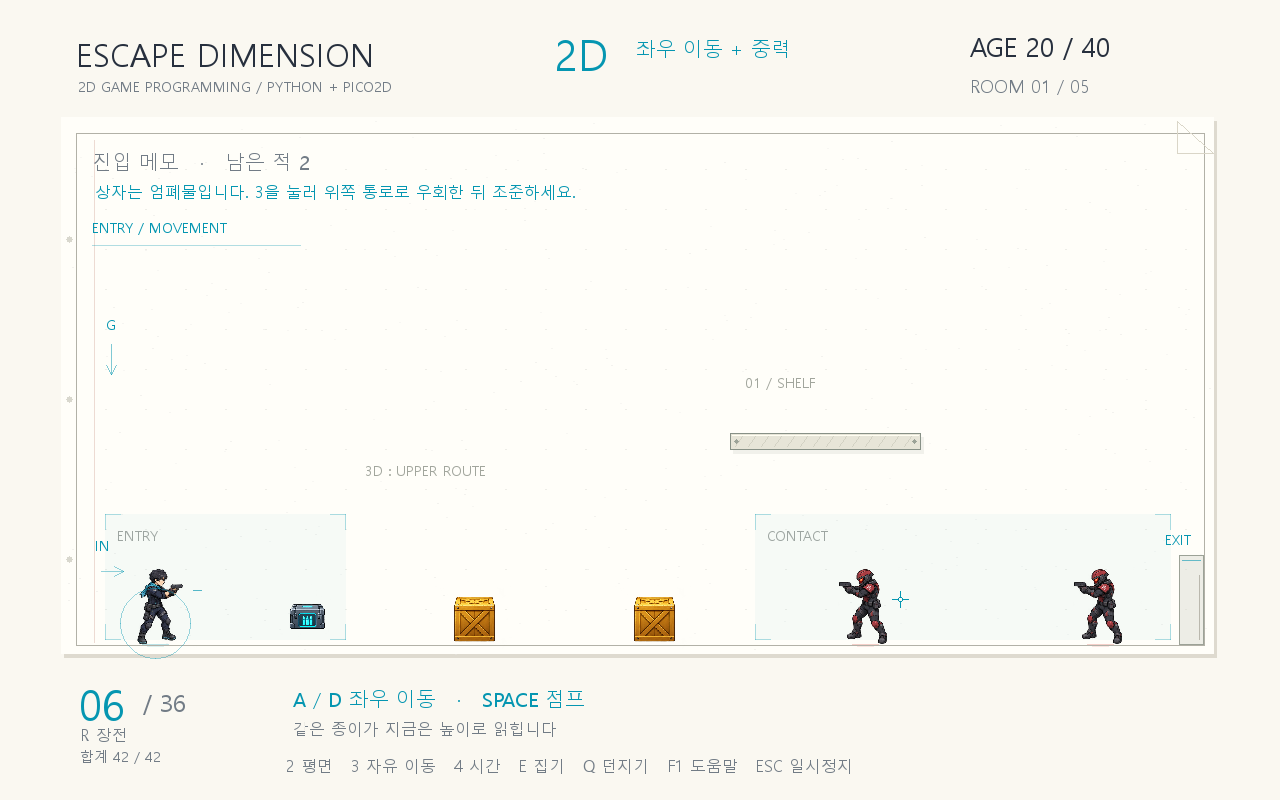
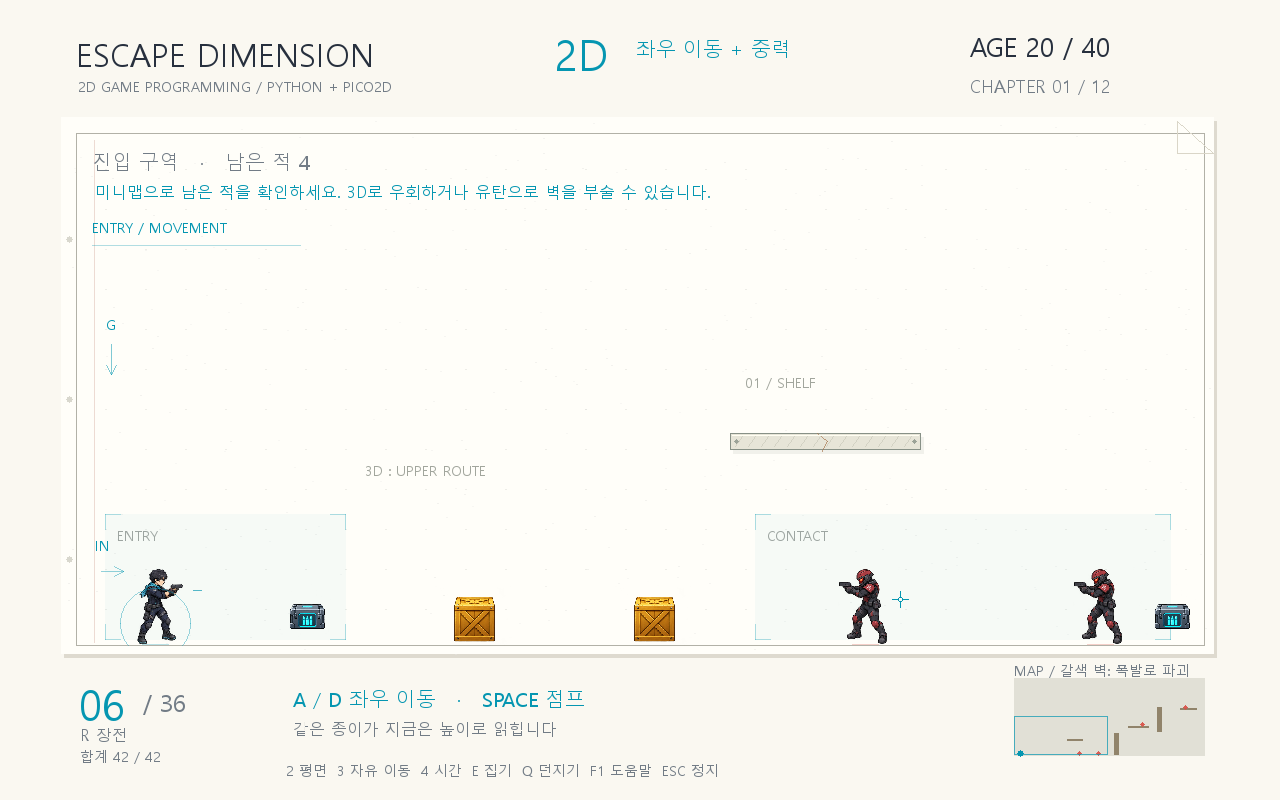
문서: 확장 캠페인 안내와 검사 결과 갱신

diff --git a/README.md b/README.md
@@ -4,12 +4,13 @@
 
 게임공학과 박태욱 · 2D 게임프로그래밍 프로젝트
 
-![실제 게임 화면](docs/knife-room.png)
+![최종보스 실제 게임 화면](docs/chapter-12-finalboss.png)
 
 ## 게임 개요
 
 - 개발: Python, pico2d / Windows / 1280 × 800 창 모드
-- 목표: 한 건물의 방 5개를 오가며 모든 적을 섬멸
+- 목표: 12개 챕터를 통과하고 6챕터 중간보스·12챕터 최종보스 처치
+- 공간: 기존보다 약 4~6배 넓은 방, 추적 스크롤 카메라와 미니맵
 - 2D: 좌우 이동, 낮은 점프, 중력과 상자 낙하 공격
 - 3D: 같은 화면을 바닥으로 해석하는 8방향 이동
 - 4D: 멈추면 세계 정지, 최근 4초의 과거 위치를 선택해 이동
@@ -17,6 +18,26 @@
 모든 화면과 충돌 처리는 2D로 구현합니다. 3D·4D는 이동·중력·시간 규칙을 구분하는 게임 모드입니다.
 탄창은 6발, 예비탄은 36발로 시작하며 보유량은 합계 최대 42발입니다.
 4D는 최대 10초이고 종료하면 한 살을 먹습니다. 20세에 시작하며 40세 이상이면 처음부터 다시 시작합니다.
+
+## 12챕터와 파괴 가능한 전장
+
+시작 화면에서 좌우 방향키로 1~12챕터 중 시작할 곳을 고를 수 있습니다.
+각 챕터의 적을 모두 처치한 뒤 Enter를 누르거나 출구에 도착하면 다음 챕터로 넘어갑니다.
+
+| 구간 | 구성 |
+|---|---|
+| 1~5챕터 | 진입 구역, 폭파 창고, 갈라진 서고, 수직 기록실, 중앙 통로 |
+| 6챕터 | 중간보스 **경계의 기록관**, 체력 18, 부채꼴 사격과 유탄 연사 |
+| 7~11챕터 | 동력실, 유탄 제조 구역, 회랑, 시간 실험실, 마지막 격벽 |
+| 12챕터 | 최종보스 **차원의 감시자**, 체력 36, 체력에 따른 3단계 공격 |
+
+유탄병은 폭발 위치를 예고한 뒤 유탄을 발사합니다. 폭발이 내부 벽·선반·상자 근처에 닿으면 해당 장애물이 부서지고 파편이 발생합니다. 길이 열리면 적도 새 경로로 추적합니다.
+바깥 경계는 유지하며, 사망 후 재도전하면 해당 챕터의 벽과 적이 처음 상태로 복구됩니다.
+
+유탄의 이동·신관과 폭발·파편도 4D 시간 정지의 영향을 받습니다.
+보스는 한 발에 쓰러지지 않으며 조준선과 공격 예고를 보고 차원을 바꾸거나 피해야 합니다.
+
+![유탄 폭발과 장애물 파괴](docs/wall-after.png)
 
 ## 조작
 
@@ -30,6 +51,7 @@
 | E / Q | 가까운 상자 집기, 조준 방향으로 투척 |
 | 휠 또는 좌우 방향키, Enter | 4D의 과거 위치 선택, 시간 이동 |
 | Enter | 시작, 방 진행, 재도전 |
+| 시작 화면의 좌우 방향키 | 시작할 챕터 선택 |
 | F1 / Esc / M | 도움말, 일시정지, 효과음 켜기·끄기 |
 
 2D에서는 하체가 좌우를 향하고 상체와 팔이 상하 조준을 따라 움직입니다.
@@ -50,6 +72,8 @@ python tools/setup_runtime.py
 이미 환경을 설치했다면 `python main.py`로 실행할 수 있습니다.
 필요한 패키지 버전은 [requirements.txt](requirements.txt)에 고정했습니다.
 
+중간보스나 최종보스를 바로 실행하려면 `python main.py --chapter 6` 또는 `python main.py --chapter 12`를 사용합니다.
+
 ## 소스 구조
 
 | 경로 | 내용 |
@@ -58,6 +82,7 @@ python tools/setup_runtime.py
 | [core.py](core.py) | 이동, 전투, 중력, 시간, 노화, 방 진행 |
 | [navigation.py](navigation.py) | 벽·상자 모서리를 이용하는 우회 경로 |
 | [visuals.py](visuals.py) | 방향과 모션 프레임, 상체 조준 변형 |
+| [camera.py](camera.py) | 스크롤 카메라와 화면·월드 좌표 변환 |
 | [levels.json](levels.json) | 방·적·상자·장애물 배치 |
 | [assets/](assets/) | 캐릭터·상자 이미지와 효과음 |
 | [tests/](tests/) | 게임 규칙 검사 |
@@ -72,13 +97,13 @@ python tools/setup_runtime.py
 .venv\Scripts\python.exe tools/verify_game.py
 ```
 
-게임 규칙과 실제 SDL 입력·렌더링을 검사합니다. 검사 기록은 [verification/](verification/)에 보관합니다.
+게임 규칙과 실제 SDL 입력·렌더링을 검사합니다. `python tools/verify_campaign.py`로 12챕터·보스·벽 파괴·스크롤 조준도 확인합니다. 검사 기록은 [verification/](verification/)에 보관합니다.
 
 ## 게임 파일과 커밋 기록
 
 [Escape Dimension.zip](Escape%20Dimension.zip)은 게임 개발 파일만 묶은 다운로드입니다.
-소스·에셋·맵·개발 문서·테스트·설치 wheel과 개발 커밋 50개를 복원할 수 있는 Git bundle을 담았습니다.
-GitHub 커밋 기록에도 기존 개발 커밋 50개를 보존했습니다.
+소스·최신 실행 파일·에셋·맵·개발 문서·테스트·설치 wheel과 게임 개발 이력을 복원할 수 있는 Git bundle을 담았습니다.
+GitHub 커밋 기록에도 기존 개발 커밋 50개와 후속 개발 이력을 보존했습니다.
 압축 안의 README에 백업 복원 방법을 적었습니다.
 
 ## 리소스 출처
@@ -87,7 +112,7 @@ GitHub 커밋 기록에도 기존 개발 커밋 50개를 보존했습니다.
 |---|---|
 | 캐릭터, 모션, 칼 적, 상자와 보급품 이미지 | OpenAI image_gen으로 제작 |
 | 메모지 공간, 조준선, 탄환과 UI | pico2d·SDL의 2D 그리기로 구현 |
-| 효과음 11종 | 사인파·잡음과 감쇠를 조합해 직접 합성 |
+| 효과음 13종 | 사인파·잡음과 감쇠를 조합해 직접 합성 |
 | 한글 글꼴 | 실행 PC의 Windows 맑은 고딕 사용, 글꼴 파일 미포함 |
 
 자세한 제작 기록은 [ASSET_PROVENANCE.md](ASSET_PROVENANCE.md), 사용한 패키지의 라이선스는 [THIRD_PARTY/](THIRD_PARTY/)에 있습니다.

diff --git a/ASSET_PROVENANCE.md b/ASSET_PROVENANCE.md
@@ -1,5 +1,11 @@
 # 이미지와 소리 출처
 
+## 2026-11-22: 유탄병과 보스
+
+`assets/special_enemies.png`는 기존 캐릭터 시트를 화풍 참고로 사용하고 OpenAI 내장 `image_gen` 도구로 제작한 실제 RGBA 투명 스프라이트입니다. 유탄병, 중간보스, 최종보스 각각의 8방향을 담은 4열×6행 시트입니다. 방향은 두 행씩 E·NE·N·NW / W·SW·S·SE 순입니다. 최종 프롬프트는 [special_enemies.prompt.txt](assets/special_enemies.prompt.txt)에 보관합니다.
+
+걷기는 위치에 따른 상하 움직임, 사망은 회전·하강으로 표현하며 기존 플레이어의 걷기·장전·사망 시트는 유지합니다. 폭발·파편·공격 예고는 게임 코드의 기본 그리기로 표시합니다. `grenade.wav`, `explosion.wav`는 [tools/generate_combat_sounds.py](tools/generate_combat_sounds.py)의 사인파·잡음 합성으로 제작했습니다.
+
 ## 칼 추적 적
 
 `assets/knife_enemy.png`는 기존 `characters_8dir.png`를 화풍과 시점 참고 자료로 사용하여 OpenAI 내장 `image_gen` 도구로 제작했습니다. 주황색 후드·검은 장비·은색 칼을 갖춘 8방향 × 2달리기 프레임의 4열×4행 알파 투명 시트입니다. 전체 프롬프트는 [knife_enemy.prompt.txt](assets/knife_enemy.prompt.txt)에 보관합니다.

diff --git a/GAME_DESIGN.md b/GAME_DESIGN.md
@@ -2,6 +2,14 @@
 
 > 메모지 같은 방에서 이동·중력·시간의 규칙을 바꾸며 적을 섬멸하는 2D 액션 슈팅 게임
 
+## 2026-11-22 확장 사양
+
+캠페인을 12챕터로 확장했습니다. 방의 실제 이동 영역은 기존보다 약 4~6배 넓으며 캐릭터 추적 카메라와 미니맵을 사용합니다. 6챕터에는 체력 18의 중간보스, 12챕터에는 체력 36의 최종보스가 등장합니다. 최종보스는 체력에 따라 3단계로 공격이 강화됩니다.
+
+유탄병은 공격 위치를 예고한 뒤 유탄을 발사합니다. 폭발 반경에 닿은 내부 벽·선반·상자가 파괴되고 적은 열린 길에 맞춰 경로를 다시 계산합니다. 외곽 경계는 유지합니다. 유탄·신관·폭발·파편은 4D 세계 정지의 영향을 받으며 재도전하면 벽과 적을 처음 상태로 되돌립니다.
+
+시작 화면에서 좌우 방향키로 시작 챕터를 고를 수 있습니다. 모든 적과 보스를 처치하면 다음 챕터로 넘어가며 12챕터를 마치면 승리합니다. 아래의 초기 개발 계획은 변경 전 기획 기록입니다.
+
 ## 1. 게임 개요
 
 | 항목 | 내용 |

diff --git a/CHANGELOG.md b/CHANGELOG.md
@@ -1,5 +1,13 @@
 # 변경 이력
 
+## 2026-11-22
+
+- 스크롤 맵과 미니맵, 시작 챕터 선택을 추가하고 캠페인을 12챕터로 확장했습니다.
+- 6챕터 중간보스, 12챕터 최종보스와 체력·단계별 공격을 추가했습니다.
+- 유탄병, 유탄 궤적·신관·폭발·파편, 내부 벽·선반·상자 파괴를 추가했습니다.
+- 장애물이 파괴되면 적의 경로를 다시 계산하며 재도전 시 맵을 복구합니다.
+- 유탄과 보스, 큰 충돌 영역, 스크롤 조준과 12챕터 전환을 검사합니다.
+
 ## 낮은 점프·자연스러운 상체 연결
 
 - 플레이어 점프를 약 100px에서 50px로 낮춰 높이 46px인 상자에 약 4px 여유로 올라가도록 조정.
